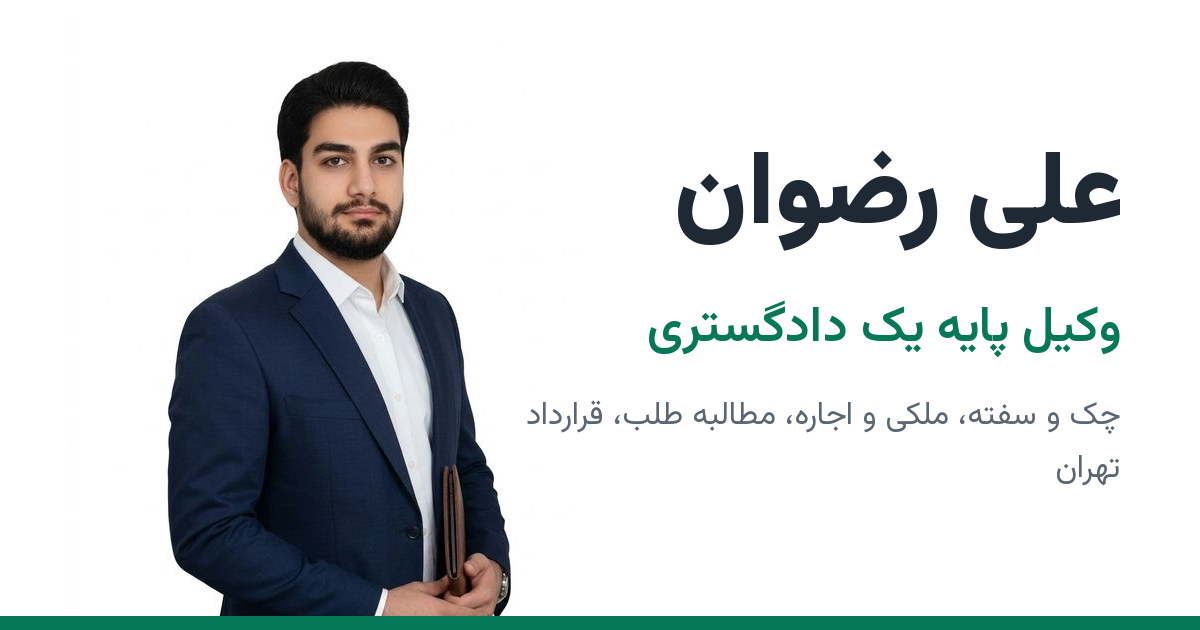
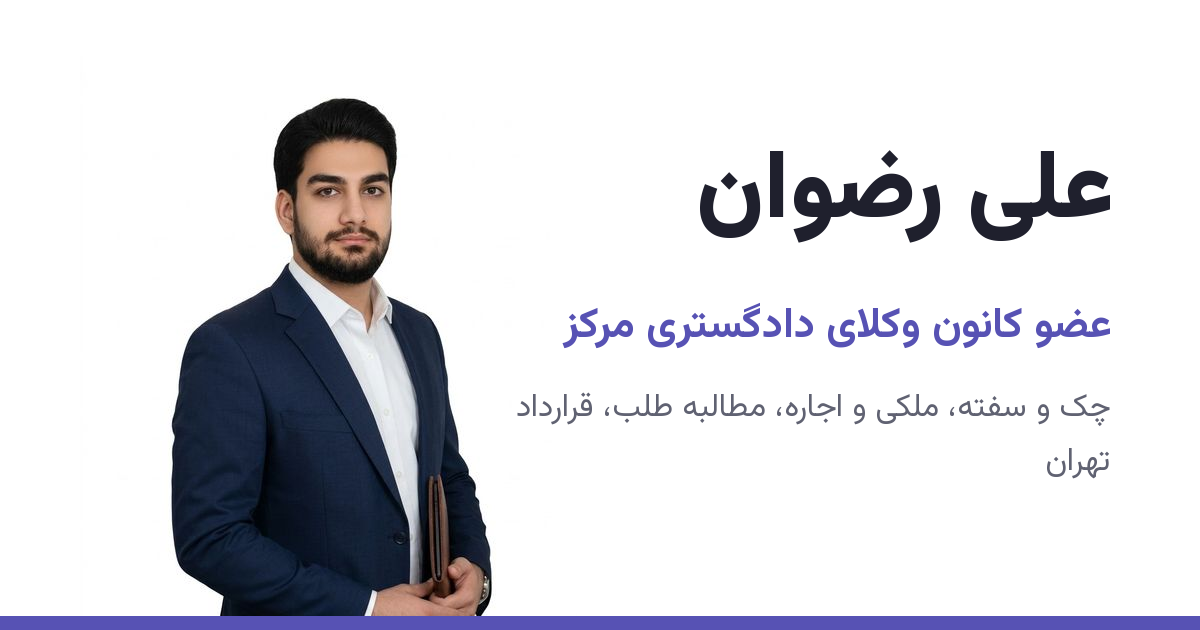
Move the brand colour from emerald to iris (#5752B4)
Add an OKLCH iris scale with #5752B4 at step 700 and point the primary,
focus and inverse tokens at it. Neutrals take a trace of the same hue,
info notices turn teal so they are not mistaken for the brand, and
success keeps emerald. All 40 contrast pairs still meet WCAG AA.

Recolour the AR favicon and app icons, and redraw the link-preview image
in the new colour with the licence line from content/lawyer.ts
(«عضو کانون وکلای دادگستری مرکز»), replacing «وکیل پایه یک دادگستری».

diff --git a/app/globals.css b/app/globals.css
@@ -23,29 +23,43 @@
   --color-emerald-900: #064e3b;
   --color-emerald-950: #032e23;
 
-  /* ---------- Colour: semantic ---------- */
-  --color-page: #faf8f5;
-  --color-surface: var(--color-white);
-  --color-surface-muted: #f3f0ea;
-  --color-ink: #1f2933;
-  --color-muted: #5b6673;
-  --color-line: #e4e0d8;
-  /* Borders of form controls need 3:1 against the surface (WCAG 1.4.11). */
-  --color-line-strong: #7b8491;
+  /* Brand: 700 is #5752B4. Built in OKLCH at one hue (~282°) so tints stay violet-blue. */
+  --color-iris-50: #f4f5fe;
+  --color-iris-100: #e8e9fe;
+  --color-iris-200: #ced2ff;
+  --color-iris-300: #b0b4f7;
+  --color-iris-400: #8f90e9;
+  --color-iris-500: #7372d6;
+  --color-iris-600: #6461c5;
+  --color-iris-700: #5752b4;
+  --color-iris-800: #454192;
+  --color-iris-900: #33306f;
+  --color-iris-950: #1f1d47;
 
-  --color-primary: var(--color-emerald-700);
-  --color-primary-hover: var(--color-emerald-800);
-  --color-primary-active: var(--color-emerald-900);
-  --color-primary-soft: var(--color-emerald-50);
-  --color-primary-soft-strong: var(--color-emerald-100);
-  --color-primary-line: var(--color-emerald-200);
+  /* ---------- Colour: semantic ---------- */
+  /* Neutrals carry a trace of the brand hue so greys and the primary read as one family. */
+  --color-page: #f9f9fc;
+  --color-surface: var(--color-white);
+  --color-surface-muted: #f0f0f7;
+  --color-ink: #1f202d;
+  --color-muted: #606272;
+  --color-line: #e0e0e9;
+  /* Borders of form controls need 3:1 against the surface (WCAG 1.4.11). */
+  --color-line-strong: #848594;
+
+  --color-primary: var(--color-iris-700);
+  --color-primary-hover: var(--color-iris-800);
+  --color-primary-active: var(--color-iris-900);
+  --color-primary-soft: var(--color-iris-50);
+  --color-primary-soft-strong: var(--color-iris-100);
+  --color-primary-line: var(--color-iris-200);
   --color-on-primary: var(--color-white);
-  --color-focus: var(--color-emerald-700);
+  --color-focus: var(--color-iris-700);
 
   /* The one dark surface: the Home hero band on phones (docs/design-system.md). */
-  --color-inverse-surface: var(--color-emerald-900);
+  --color-inverse-surface: var(--color-iris-900);
   --color-on-inverse: var(--color-white);
-  --color-on-inverse-muted: var(--color-emerald-200);
+  --color-on-inverse-muted: var(--color-iris-200);
   --color-focus-inverse: var(--color-white);
 
   --color-success-surface: var(--color-emerald-50);
@@ -63,19 +77,20 @@
   --color-danger-line: #f3b8b2;
   --color-danger-ink: #912018;
 
-  --color-info-surface: #eff5fb;
-  --color-info-line: #b9d2ea;
-  --color-info-ink: #1b4a7a;
+  /* Teal rather than blue, so an info notice is not mistaken for the violet-blue brand. */
+  --color-info-surface: #ecf7f8;
+  --color-info-line: #a9d8dc;
+  --color-info-ink: #16545c;
 
   /* Calculator "estimate, not legal advice" notice. */
   --color-estimate-surface: #fff7e0;
   --color-estimate-line: #ead9a0;
   --color-estimate-ink: #4a3a0a;
 
-  --color-disabled-surface: #ece9e3;
-  --color-disabled-ink: #6b7480;
+  --color-disabled-surface: #e8e9ef;
+  --color-disabled-ink: #6f717c;
 
-  --color-overlay: rgb(31 41 51 / 0.45);
+  --color-overlay: rgb(31 32 45 / 0.45);
 
   /* ---------- Type: six fluid steps ---------- */
   --text-*: initial;
@@ -101,8 +116,8 @@
   --radius-lg: 1rem;
 
   --shadow-*: initial;
-  --shadow-sm: 0 1px 2px rgb(31 41 51 / 0.06);
-  --shadow-md: 0 6px 20px rgb(31 41 51 / 0.08);
+  --shadow-sm: 0 1px 2px rgb(31 32 45 / 0.06);
+  --shadow-md: 0 6px 20px rgb(31 32 45 / 0.08);
 
   /* ---------- Breakpoints and widths ---------- */
   --breakpoint-*: initial;
@@ -161,7 +176,7 @@
   padding-right: max(var(--gutter), env(safe-area-inset-right));
 }
 
-/* On the dark inverse surface the emerald focus ring would vanish; it turns white there. */
+/* On the dark inverse surface the brand focus ring would vanish; it turns white there. */
 @utility focus-inverse {
   & :focus-visible {
     outline-color: var(--color-focus-inverse);
@@ -206,7 +221,7 @@
     text-wrap: pretty;
   }
 
-  /* One focus ring everywhere: 2px emerald, 2px gap showing the background. */
+  /* One focus ring everywhere: 2px brand colour, 2px gap showing the background. */
   :focus-visible {
     outline: 2px solid var(--color-focus);
     outline-offset: 2px;

diff --git a/app/(site)/design-system/page.tsx b/app/(site)/design-system/page.tsx
@@ -52,7 +52,7 @@ import { ToastDemo } from "./ToastDemo";
 
 export const metadata = { title: "سیستم طراحی (داخلی)", robots: { index: false, follow: false } };
 
-const emerald = [50, 100, 200, 300, 400, 500, 600, 700, 800, 900, 950];
+const scale = [50, 100, 200, 300, 400, 500, 600, 700, 800, 900, 950];
 
 const semantic = [
   "page",
@@ -145,9 +145,16 @@ export default async function DesignSystemPage() {
       </p>
 
       <Block title="رنگ">
+        <Sub title="Iris (brand)">
+          <Grid cols={4}>
+            {scale.map((step) => (
+              <Swatch key={step} name={`iris-${step}`} />
+            ))}
+          </Grid>
+        </Sub>
         <Sub title="Emerald">
           <Grid cols={4}>
-            {emerald.map((step) => (
+            {scale.map((step) => (
               <Swatch key={step} name={`emerald-${step}`} />
             ))}
           </Grid>

diff --git a/components/ShareBar.tsx b/components/ShareBar.tsx
@@ -4,7 +4,7 @@
 // readers: the legend (and usually a table) carries the numbers.
 // Colours are token utilities passed in by the caller; `pattern` marks a part that is set
 // aside rather than shared out, so it is not told apart by colour alone.
-// Usage: <ShareBar label="سهم وراث" parts={[{ key, label, value: 0.25, percent: "۲۵٪", color: "bg-emerald-700" }]} />
+// Usage: <ShareBar label="سهم وراث" parts={[{ key, label, value: 0.25, percent: "۲۵٪", color: "bg-iris-700" }]} />
 import { cn } from "@/lib/cn";
 
 export type SharePart = {
@@ -14,7 +14,7 @@ export type SharePart = {
   value: number;
   /** The value as text, e.g. «۲۵٪». */
   percent: string;
-  /** A background utility from the tokens, e.g. "bg-emerald-700". */
+  /** A background utility from the tokens, e.g. "bg-iris-700". */
   color: string;
   pattern?: "reserved";
 };

diff --git a/components/HomeHero.tsx b/components/HomeHero.tsx
@@ -1,6 +1,6 @@
 // HomeHero — the top of Home: the lawyer's photo, name and grade, the lead and the
 // consultation request. Used once, on Home.
-// Phones (below `md`) get a dark emerald band: round photo beside the name, the lead and
+// Phones (below `md`) get a dark iris band: round photo beside the name, the lead and
 // one light button underneath; call and WhatsApp stay in the sticky contact bar. Every
 // phone-only style is a `max-md:` addition, so from `md` the hero is the white one with
 // the full portrait and its contact buttons, unchanged.

diff --git a/app/layout.tsx b/app/layout.tsx
@@ -45,8 +45,8 @@ export const viewport: Viewport = {
   // Lets the page use the whole screen on notched phones; the gutters and the sticky
   // bar then add the safe-area insets themselves (see app/globals.css).
   viewportFit: "cover",
-  // emerald-700, the primary token in app/globals.css
-  themeColor: "#047857",
+  // iris-700, the primary token in app/globals.css
+  themeColor: "#5752b4",
 };
 
 export default function RootLayout({ children }: LayoutProps<"/">) {

diff --git a/lib/ers/present.ts b/lib/ers/present.ts
@@ -331,13 +331,13 @@ export const UNCLE_SIDES: Side[] = SIDE_OF;
 
 /** Colour of each share in the stacked bar: token utilities, cycled. */
 export const SHARE_COLORS = [
-  "bg-emerald-700",
+  "bg-iris-700",
   "bg-info-ink",
-  "bg-emerald-400",
+  "bg-iris-400",
   "bg-warning-ink",
-  "bg-emerald-200",
+  "bg-iris-200",
   "bg-warning-line",
-  "bg-emerald-900",
+  "bg-iris-900",
   "bg-info-line",
   "bg-line-strong",
   "bg-danger-line",

diff --git a/components/PracticeIndex.tsx b/components/PracticeIndex.tsx
@@ -1,5 +1,5 @@
 // PracticeIndex — the practice areas as a ruled index: one full-width row per area under
-// a single emerald rule. Use it where the areas are the main content (Home). For a
+// a single brand-colour rule. Use it where the areas are the main content (Home). For a
 // compact grid of areas inside other content use PracticeCard.
 // Usage: <PracticeIndex areas={practiceAreas} />
 import Link from "next/link";

diff --git a/docs/design-system.md b/docs/design-system.md
@@ -4,10 +4,11 @@ The visual and interaction rules for the Ali Rezvan site. `CLAUDE.md` wins where
 two disagree. The live reference is `/design-system` (development only; it returns 404
 in a production build).
 
-Direction: a quiet law office. Text-led, generous whitespace, one deep emerald used
+Direction: a quiet law office. Text-led, generous whitespace, one violet-blue (iris, `#5752B4`) used
 sparingly (about a tenth of any screen), flat surfaces, no gradients, no decorative
-motion, no legal stock imagery. One exception to the emerald share: the Home hero on
-phones is a dark emerald band (`HomeHero`, owner's decision, 25 Oct 2026).
+motion, no legal stock imagery. One exception to the iris share: the Home hero on
+phones is a dark iris band (`HomeHero`, owner's decision, 25 Oct 2026). The brand moved
+from emerald to iris on 2 Nov 2026 (owner's decision, branch `feature/iris-palette`).
 
 ## 1. Tokens
 
@@ -19,30 +20,31 @@ class like `bg-blue-500` or `rounded-2xl` does not exist in this project.
 
 | Token | Value | Use |
 | --- | --- | --- |
-| `page` | `#FAF8F5` | Page background |
+| `page` | `#F9F9FC` | Page background |
 | `surface` | `#FFFFFF` | Cards, header, footer, inputs |
-| `surface-muted` | `#F3F0EA` | Alternate section band, table head |
-| `ink` | `#1F2933` | Body text and headings |
-| `muted` | `#5B6673` | Secondary text, hints |
-| `line` | `#E4E0D8` | Dividers and card borders |
-| `line-strong` | `#7B8491` | Borders of form controls (3:1) |
-| `primary` / `-hover` / `-active` | emerald 700 / 800 / 900 | Buttons, links, key figures |
-| `primary-soft` / `-soft-strong` / `primary-line` | emerald 50 / 100 / 200 | Hover fills, selected state, soft borders |
+| `surface-muted` | `#F0F0F7` | Alternate section band, table head |
+| `ink` | `#1F202D` | Body text and headings |
+| `muted` | `#606272` | Secondary text, hints |
+| `line` | `#E0E0E9` | Dividers and card borders |
+| `line-strong` | `#848594` | Borders of form controls (3:1) |
+| `primary` / `-hover` / `-active` | iris 700 / 800 / 900 | Buttons, links, key figures |
+| `primary-soft` / `-soft-strong` / `primary-line` | iris 50 / 100 / 200 | Hover fills, selected state, soft borders |
 | `on-primary` | white | Text on primary and danger |
-| `focus` | emerald 700 | Focus ring |
-| `inverse-surface` | emerald 900 | The one dark surface: Home hero band on phones |
-| `on-inverse` / `on-inverse-muted` | white / emerald 200 | Text on the inverse surface |
+| `focus` | iris 700 | Focus ring |
+| `inverse-surface` | iris 900 | The one dark surface: Home hero band on phones |
+| `on-inverse` / `on-inverse-muted` | white / iris 200 | Text on the inverse surface |
 | `focus-inverse` | white | Focus ring on the inverse surface (`focus-inverse` utility) |
-| `success-*`, `warning-*`, `danger-*`, `info-*` | see file | `-surface`, `-line`, `-ink` triples for notices |
+| `success-*`, `warning-*`, `danger-*`, `info-*` | see file | `-surface`, `-line`, `-ink` triples for notices. Success stays emerald; info is teal so it is not mistaken for the brand |
 | `danger` / `-hover` / `-active` | `#B42318` … | Danger button, error border |
 | `estimate-*` | `#FFF7E0` surface | Calculator estimate notice |
 | `disabled-surface` / `disabled-ink` | | Disabled controls |
 
-Emerald runs 50–950. Anchors: 700 `#047857`, 800 `#065F46`, 900 `#064E3B`,
-50 `#ECFDF5`, 100 `#D1FAE5`. Steps 200–600 are slightly desaturated so tints read as
-sober rather than mint.
+Iris runs 50–950, built in OKLCH at one hue (about 282°) so every tint stays violet-blue.
+Anchors: 700 `#5752B4`, 800 `#454192`, 900 `#33306F`, 50 `#F4F5FE`, 100 `#E8E9FE`,
+200 `#CED2FF`. The neutrals carry a trace of the same hue. Emerald (50–950) remains only
+for the success notice.
 
-Use the semantic names in components. The raw emerald steps are for the token file and
+Use the semantic names in components. The raw iris and emerald steps are for the token file and
 the showcase only. Keeping names semantic is what will let dark mode be added later by
 redefining tokens; dark mode is not built.
 
@@ -77,7 +79,7 @@ At most three heading sizes on a page. Weights: 400 body, 600 labels and buttons
 - z-index: `z-sticky` (header) < `z-bar` (contact bar) < `z-overlay` < `z-toast`.
 - Motion: colour and border transitions only, 150ms (`--duration-base` 200ms for the FAQ
   and `NavDisclosure` chevrons), ease-out. All motion is switched off under `prefers-reduced-motion`.
-- Focus: 2px emerald outline with a 2px gap, set once globally. Never remove it.
+- Focus: 2px iris outline with a 2px gap, set once globally. Never remove it.
 
 ## 2. Components
 
@@ -139,7 +141,7 @@ Don't
   The one exception is the faint dot grid behind the Home hero (`.hero-dots` in
   `app/globals.css`); don't reuse it elsewhere.
 - Don't use scales, gavels, courtrooms or gold-and-black styling. No gold on the
-  emerald band either.
+  iris band either.
 - Don't use the inverse surface outside the Home hero.
 - Don't use badges, banners or copy for superlatives, rankings, discounts, success
   rates, outcome promises or client details (`CLAUDE.md` §2.1).

diff --git a/docs/cover-image-prompt.md b/docs/cover-image-prompt.md
@@ -18,8 +18,8 @@ Style: premium corporate editorial photograph, as in a top international law fir
 A modern, elegant law office: clean lines, glass, light stone or walnut, high-end minimal decor.
 Soft natural daylight, shallow depth of field, sharp focus on the subject. Formal, professional,
 no home or casual setting and no culture-specific objects.
-Colour palette: warm off-white and cream (#FAF8F5, #F3F0EA), deep emerald green accents
-(#047857, #064E3B), muted charcoal (#1F2933). Low contrast, no neon, no heavy saturation.
+Colour palette: cool off-white and pale lavender-grey (#F9F9FC, #F0F0F7), deep violet-blue accents
+(#5752B4, #33306F), muted charcoal (#1F202D). Low contrast, no neon, no heavy saturation.
 Composition: wide 16:9 landscape, main subject slightly off-centre with empty space around it,
 nothing important near the edges (the site crops the image to 16:10).
 
